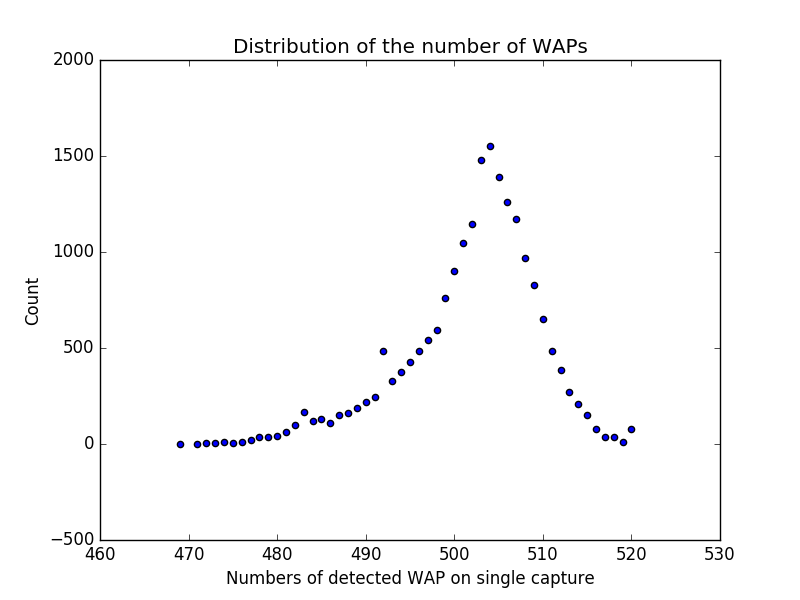
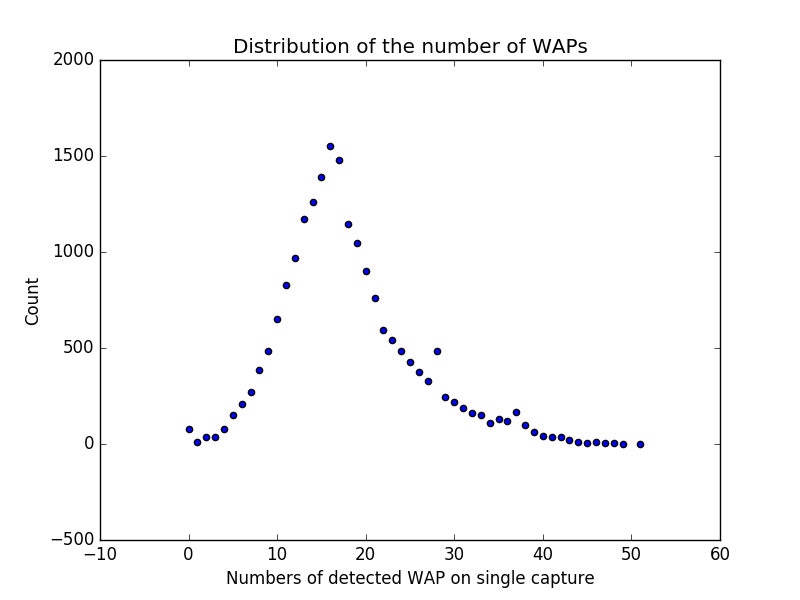
Q1 v1_2 Because I would get the the numbers of WAPs, 520-v (v is the number of unavailable connection)

diff --git a/Q1.py b/Q1.py
@@ -14,8 +14,9 @@ def read(name):
     for i in range(0,shape[0]):
         index = pd.Index(raws.loc[i])
         count = index.value_counts()
-        table.setdefault(count[0],0)
-        table[count[0]] = table[count[0]]+1
+        APs = 520-count[0]
+        table.setdefault(APs,0)
+        table[APs] = table[APs]+1
     sort_table = collections.OrderedDict(sorted(table.items()))
     return sort_table
 

diff --git a/README.md b/README.md
@@ -1,3 +1,1 @@
 # simulation_hw1
-# simulation_hw1
-# simulation_hw1
